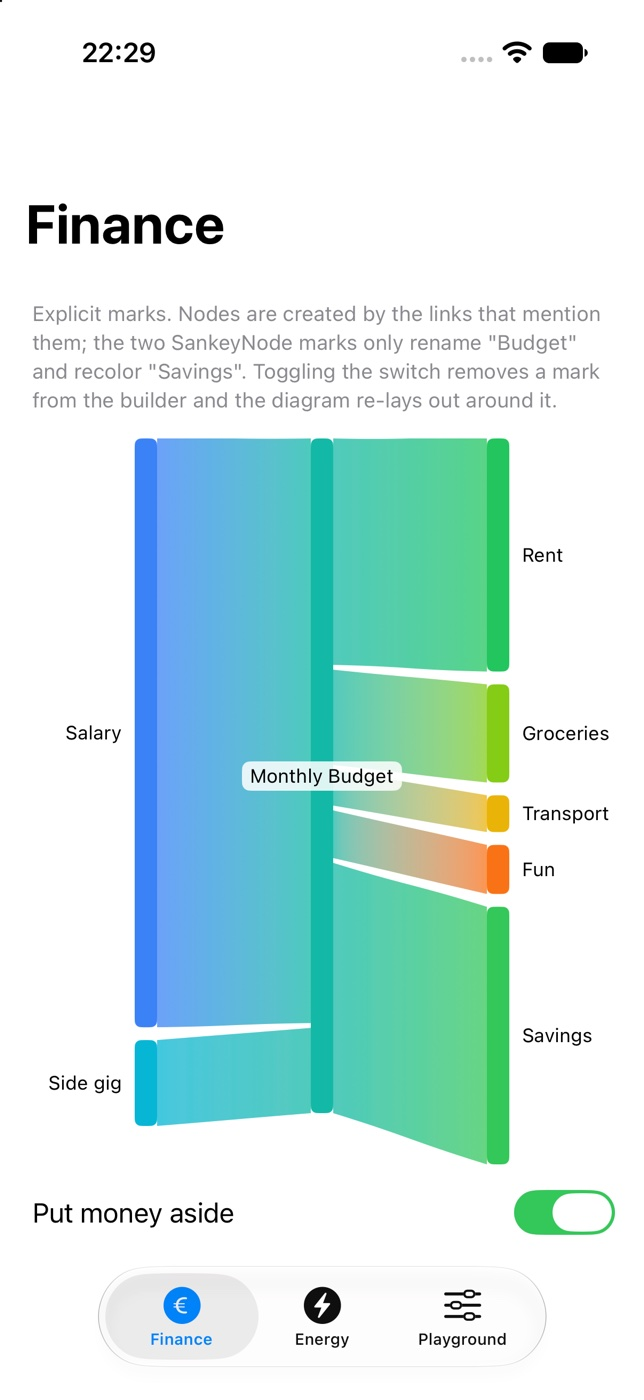
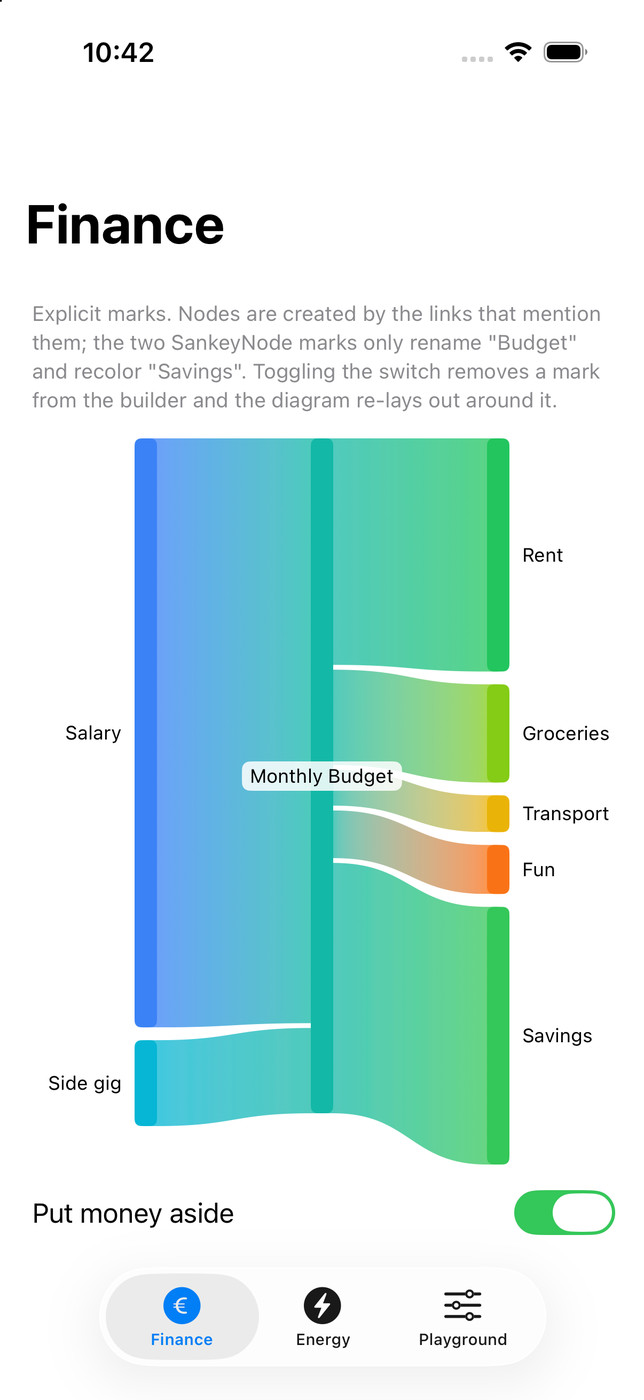
Re-capture the seven screenshots
They still showed the straight diagonal ribbons from before the curve
fix, so they were two changes stale: the charts now draw as S-curves and
their ends tuck under the node capsules.

The six chart shots keep their framing exactly — 28 pt of padding, @2x,
144 dpi JPEG, white / #171717 backgrounds, 900x480, 1000x560 and
900x440 pt — so the README and DocC layouts do not move. The demo shot
is an iPhone 17 Pro simulator capture scaled to the same 644x1400.

diff --git a/docs/agents/plans/2026-08-17-curved-ribbons.md b/docs/agents/plans/2026-08-17-curved-ribbons.md
@@ -238,7 +238,7 @@ describes the curvature knob in line with what it now does.
 - [x] `Sources/SankeyKit/Documentation.docc/GettingStarted.md` — add one sentence under
       "Style the chart" explaining the curvature number, since it is the least self-evident modifier
       in that code block.
-- [ ] Re-capture the seven screenshots in `Sources/SankeyKit/Documentation.docc/Resources/`, keeping
+- [x] Re-capture the seven screenshots in `Sources/SankeyKit/Documentation.docc/Resources/`, keeping
       the existing framing and file names: `sankey-hero@2x.jpg`, `sankey-hero~dark@2x.jpg`,
       `sankey-energy@2x.jpg`, `sankey-energy~dark@2x.jpg`, `sankey-selection@2x.jpg`,
       `sankey-selection~dark@2x.jpg`, `sankey-demo@2x.jpg`.
@@ -263,7 +263,7 @@ describes the curvature knob in line with what it now does.
       clean S on every intermediate frame.
 - [x] Run the `SankeyDemo` app and confirm the diagram still reads correctly on a phone-width
       canvas, where the columns are closest together and the 24 pt offset floor takes over.
-- [ ] The seven re-captured screenshots show the new curves, in both colour schemes.
+- [x] The seven re-captured screenshots show the new curves, in both colour schemes.
 
 ## Implementation Notes
 
